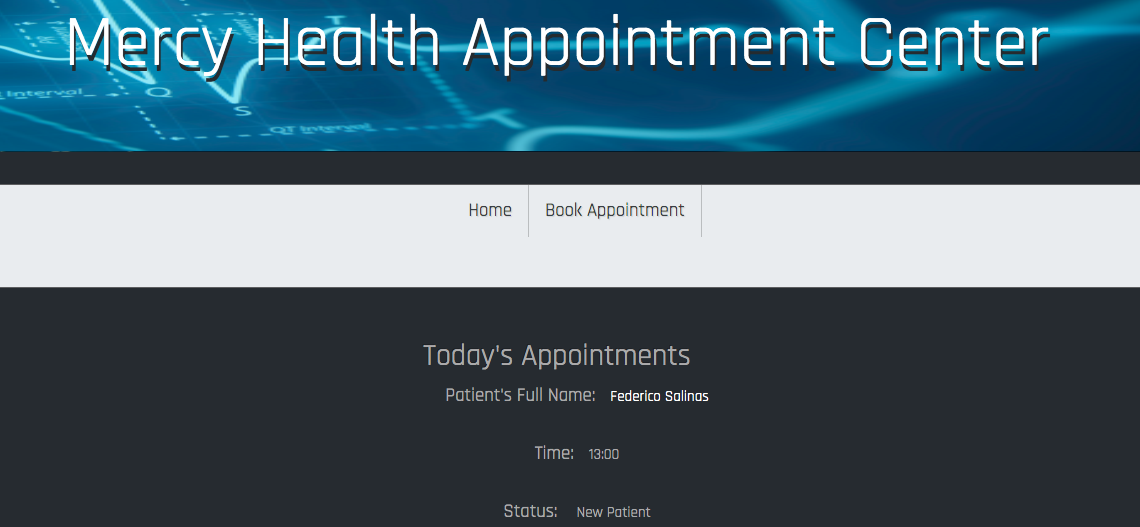
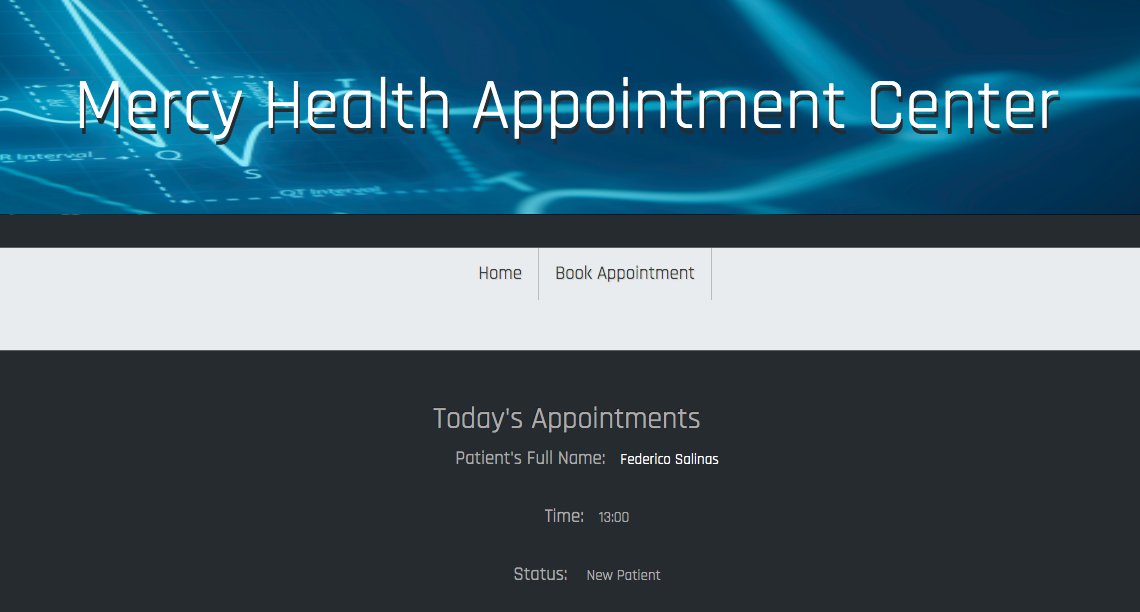
fixing imagenes culeras

diff --git a/src/components/Projects.js b/src/components/Projects.js
@@ -32,8 +32,7 @@ class Projects extends React.Component{
                                 <div className={classes.imagenesDiv}>
                                 <a target='_blank' href={'http://eightballinktattoo.com/'}><img src={require('../images/eightball.png')} className={classes.images}/></a>
                                 </div>
-                                {/* <img src={require('../images/mercy_appointments.svg')} className='images'/>
-                                <img src={require('../images/mercy_details.svg')} className='images'/> */}
+    
                                 <div className={classes.projectDetails}>
                                      <h5> 8ball Ink Tattoo</h5><br></br>
                                     <p> Technologies used: HTML5, Bootstrap, React, Javascript, Express</p>
@@ -43,11 +42,9 @@ class Projects extends React.Component{
                                 </div>
                         </div>
                         <div className={classes.imageContainer}>
-                                <div className={classes.imagenesDiv}>
+                                <div className={classes.imagenCulera}>
                                 <a target='_blank' href={'https://mercy-appointment-center.herokuapp.com/appointments'}><img src={require('../images/mercyclinic.png')} className={classes.images} /></a>
                                 </div>
-                                {/* <img src={require('../images/mercy_appointments.svg')} className='images'/>
-                                <img src={require('../images/mercy_details.svg')} className='images'/> */}
                                 <div className={classes.projectDetails}>
                                      <h5> Mercy Clinic Appointment Center</h5><br></br>
                                     <p> Technologies used: HTML5, Bootstrap, React, Javascript, MongoDB, Express</p>

diff --git a/src/components/Projects.module.css b/src/components/Projects.module.css
@@ -56,32 +56,47 @@ p {
 }
 
 @media screen and (max-width: 812px) {
-    .images{
-        border: 1px solid #ddd;
-        border-radius: 4px;
-        padding: 5px;
-        width: 60%;
-        margin-top: 6.5%;
+    .Projects {
+
+        display: flex;
+        flex-direction: row;
     }
-    .projectDetails {
-        width: 150%;
-        padding: 2%;
+    .imageContainer {
+       width: 100%;
+       margin: 0.5%;
+    }
+    .images {   
+        width: 90%;
+        height: 100%;
+        margin-top: 1%;
+    }
+    .projectDetails h5 {
+        margin-top: 5%;
+        font-size: 16px;
+    }
+    .imagenesDiv {
+        height: 100%;
+        /* border: 1px solid red; */
+    }
+    .imagenCulera {
+        margin-top: 0%;
+        padding: 0;
     }
 }
 @media screen and (max-width: 450px) {
-    .imageContainer {
+    .Projects {
         display: flex;
         flex-direction: column;
     }
-  
-    h3 {
-        font-size: 18px;
+    .imageContainer {
+       width: 100%;
+       margin-bottom: 2%;
     }
-    .projectDetails {
-        width: 100%;
-        padding: 2%;
+    .images {
+        
+        width: 90%;
+        height: 100%;
+        margin-top: 1%;
     }
-    .projectDetails h5 {
-        font-size: 18px;
-    }
+   
 }

diff --git a/src/components/Main.module.css b/src/components/Main.module.css
@@ -62,6 +62,9 @@ span {
         color: white;
         font-size: 20px;
     }
+    span {
+        font-size: 16px;
+    }
 
     .centerItem {
         margin-top: 7%;
@@ -109,6 +112,9 @@ span {
 .whoIAm {
     color: white;
     font-size: 18px;
+}
+span {
+    font-size: 14px;
 }
 
 .centerItem {
